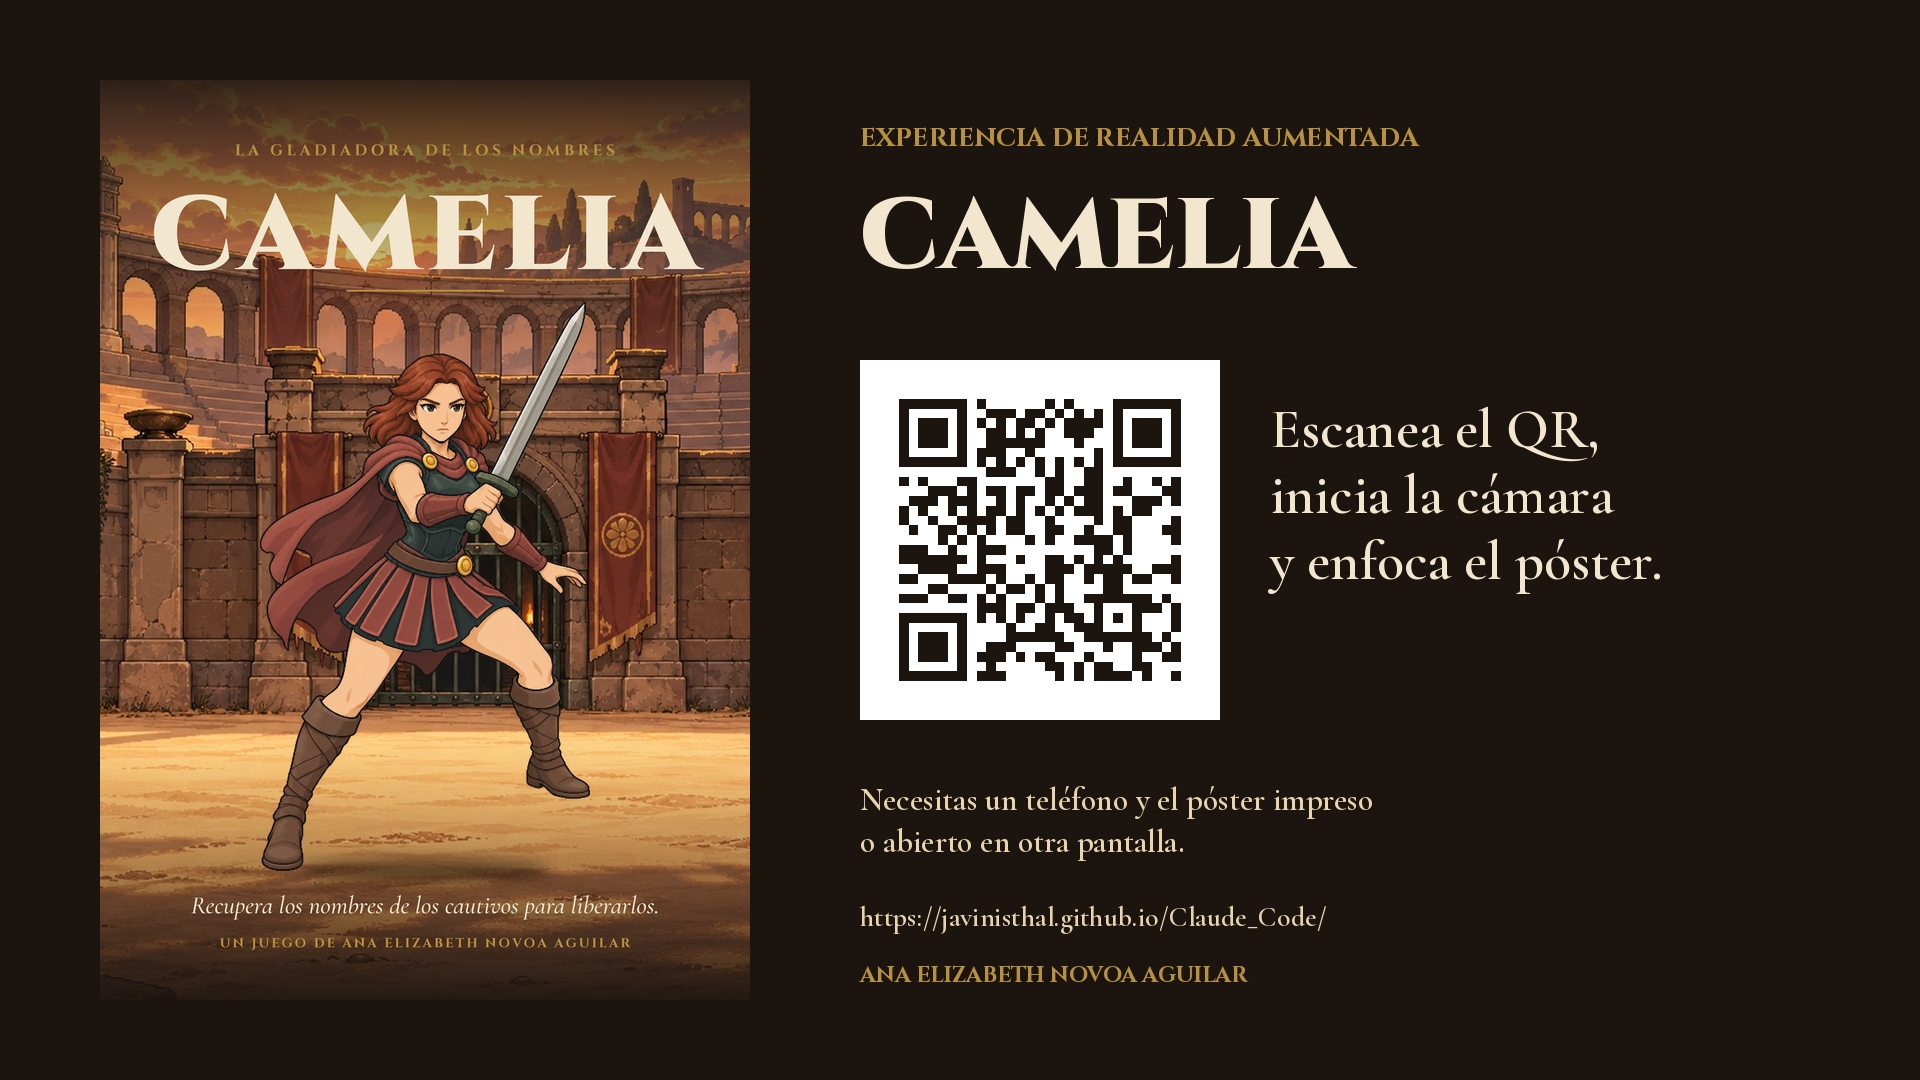
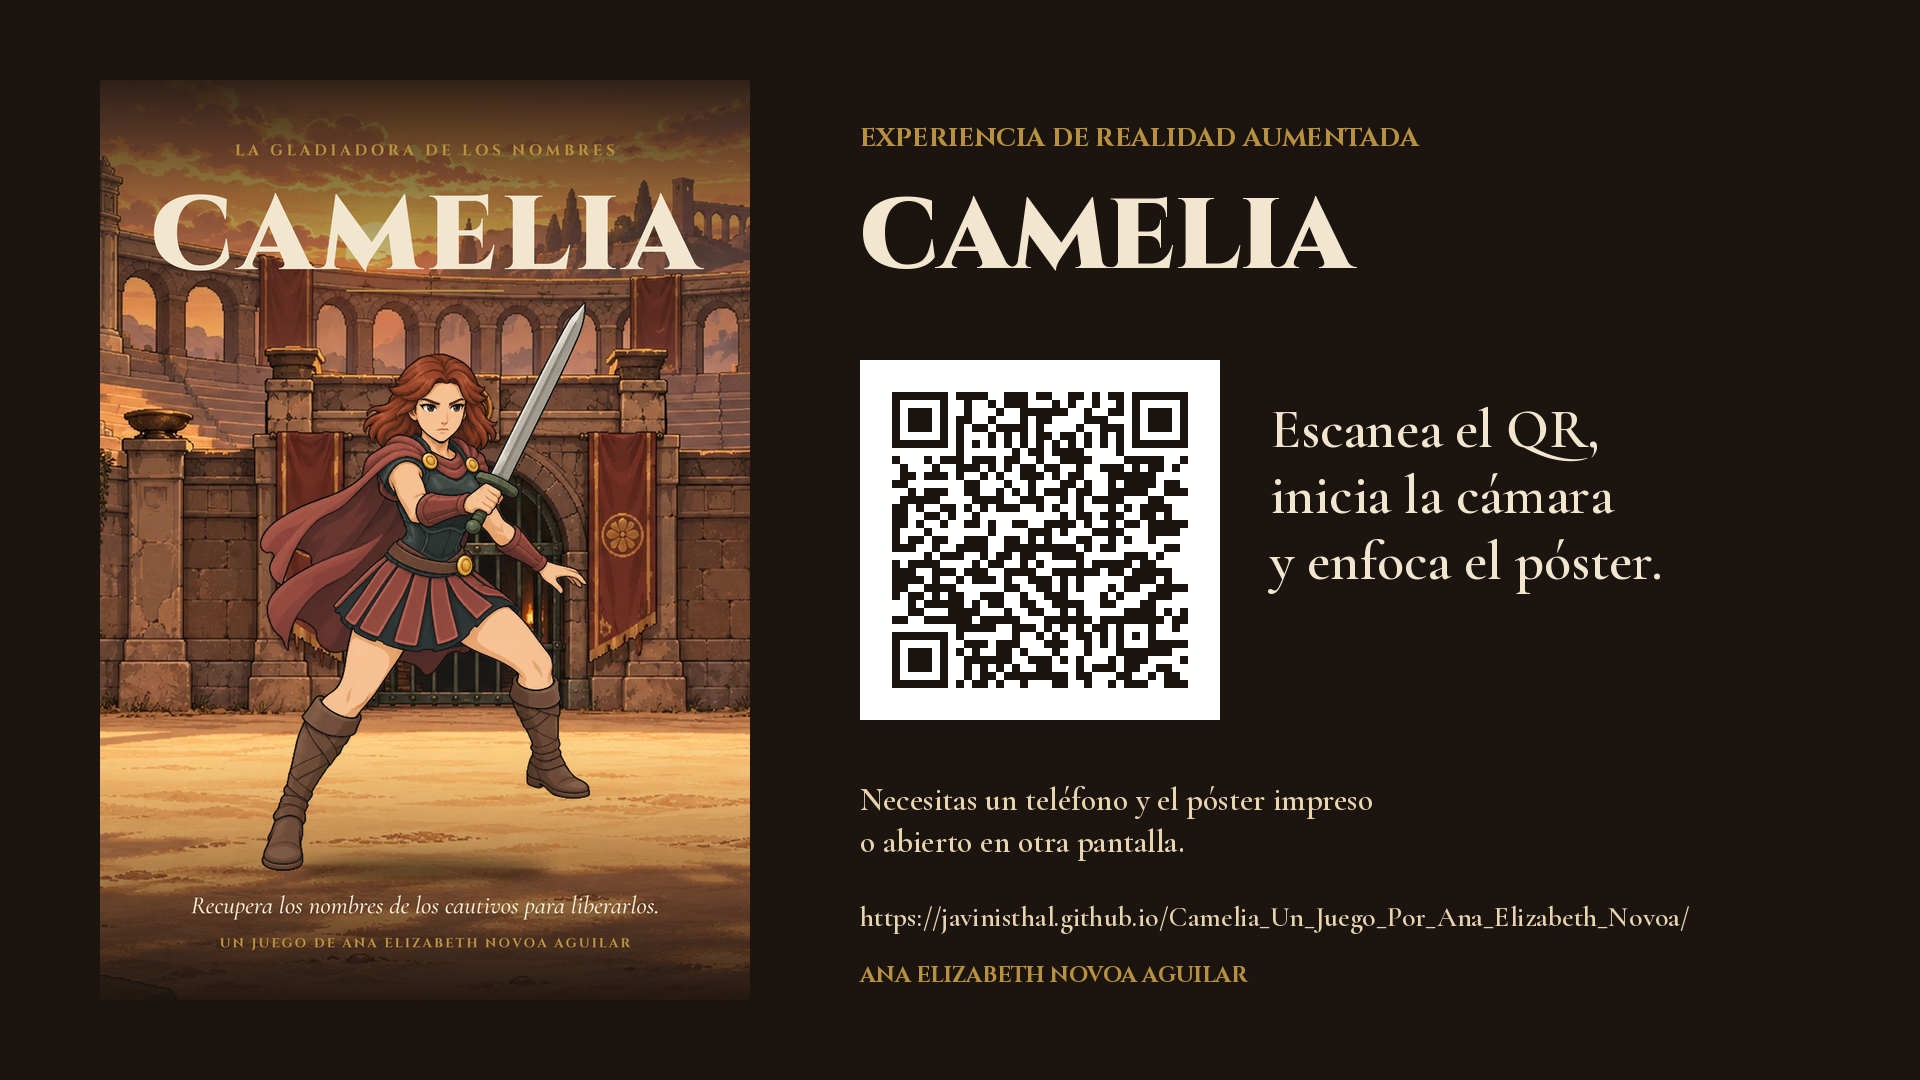
Point QR and final slide at the renamed repository's Pages URL
Claude-Session: https://claude.ai/code/session_01XLMTAXShAWERBXG9sfPchy

Changed region(s): [[0.4375, 0.3361, 0.625, 0.6417], [0.75, 0.825, 0.875, 0.8556], [0.625, 0.825, 0.7188, 0.8556]]

diff --git a/camelia-ra/README.md b/camelia-ra/README.md
@@ -57,5 +57,5 @@ Si el orden no es correcto, se cambia con `--order 3,4,5,6,7,8,1,2` (o el que co
 - **Hecho con tus ilustraciones:** póster, GIF, fotogramas, broche, lámina de RA y `targets.mind` compilado desde el póster final. Detalles y hallazgos en `docs/PROCESO.md`.
 - **Caminata:** el orden es correcto y el ritmo se ha regularizado, pero la lámina no tiene las poses en que las piernas se cruzan. Se nota un pequeño salto del pie delantero dos veces por ciclo. Para corregirlo hacen falta dos poses nuevas (ver `docs/PROCESO.md`).
 - **Probado:** en Chromium con cámara **simulada**, las 9 comprobaciones pasaron (`revision/`).
-- **Publicado:** https://javinisthal.github.io/Claude_Code/ (rama `gh-pages`). QR en `entrega/qr_camelia.png` y diapositiva final en `entrega/diapositiva_final.png`.
+- **Publicado:** https://javinisthal.github.io/Camelia_Un_Juego_Por_Ana_Elizabeth_Novoa/ (rama `gh-pages`). QR en `entrega/qr_camelia.png` y diapositiva final en `entrega/diapositiva_final.png`.
 - **Sin probar:** con un teléfono real y el póster impreso (`docs/PRUEBAS.md`).
